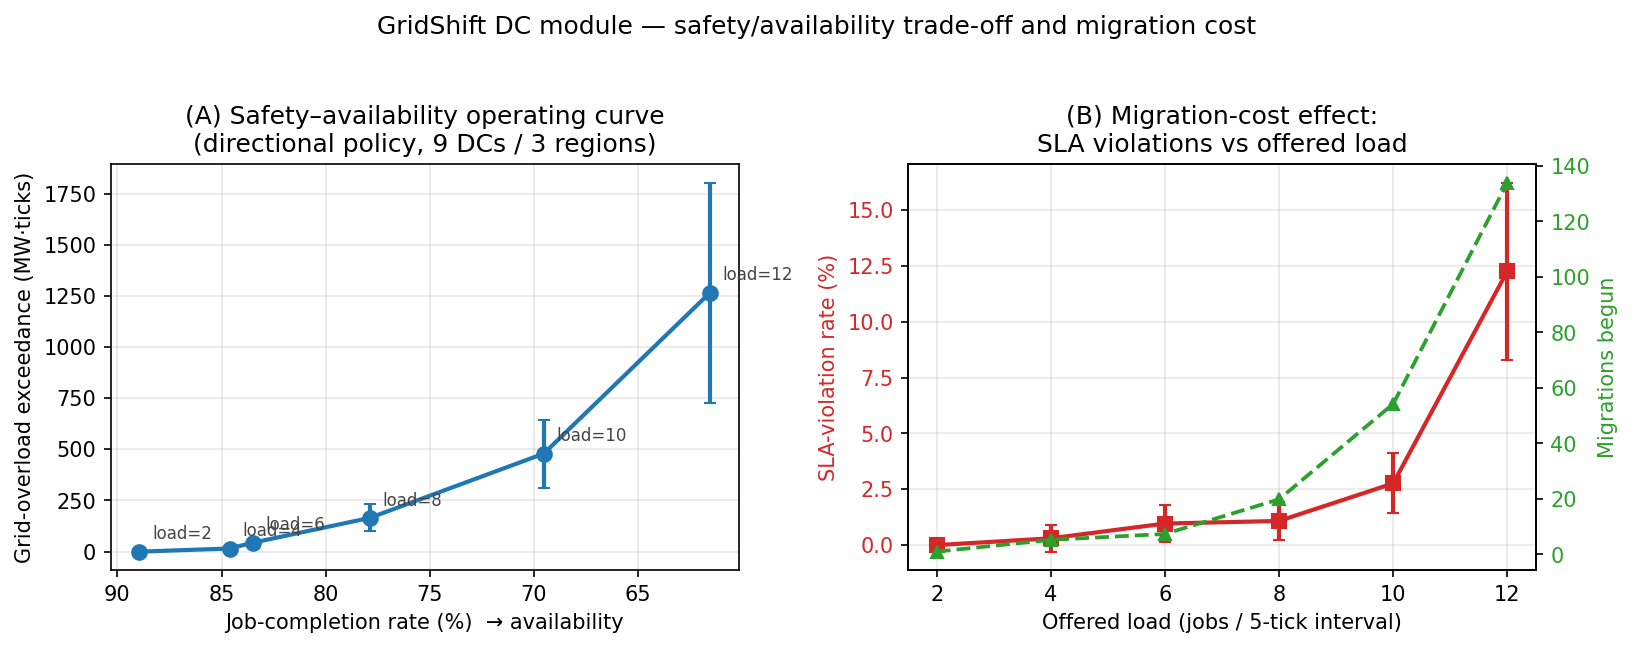
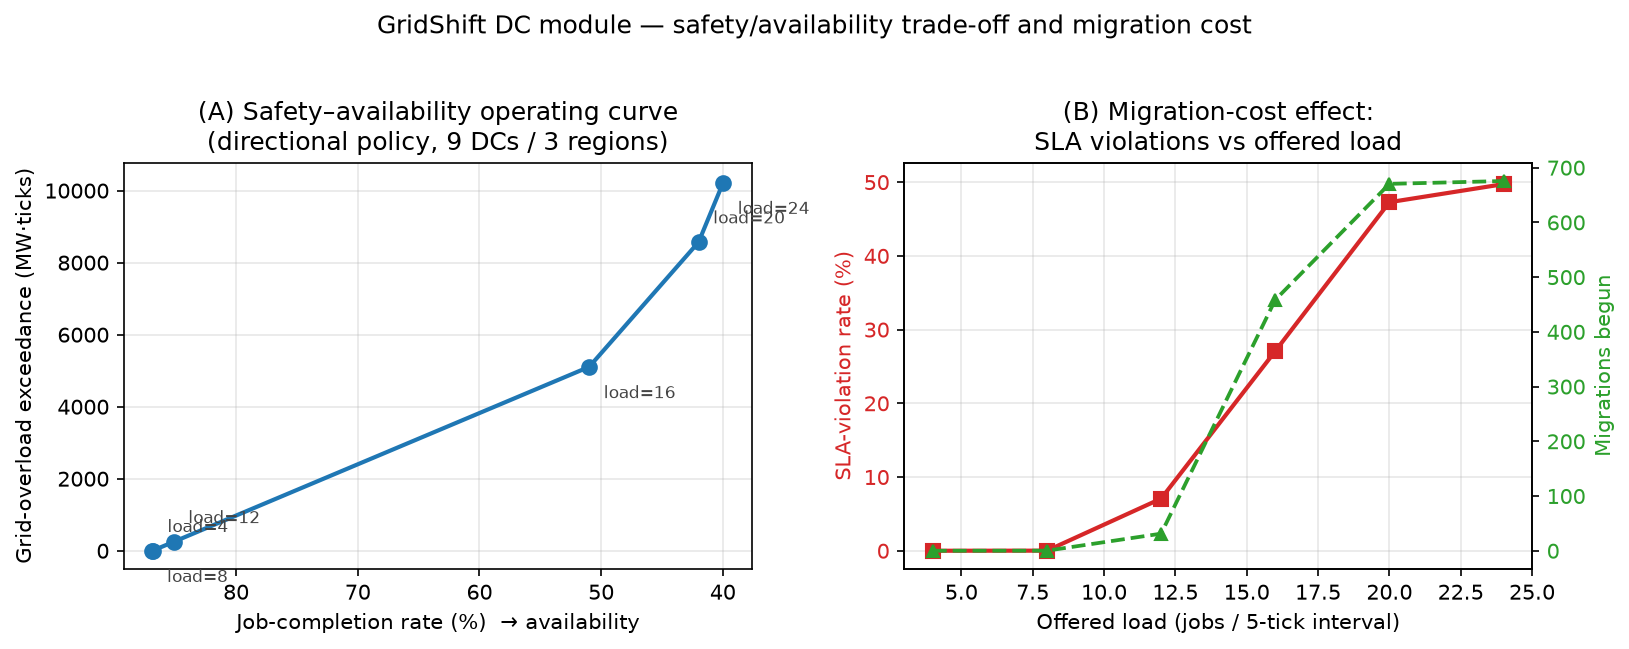
Expand sensitivity evaluations to 500 seeds

diff --git a/experiments/fig_robustness.py b/experiments/fig_robustness.py
@@ -3,10 +3,10 @@
 Robustness sweep: how the three policies degrade as the adversary controls
 a larger fraction of the fleet. Addresses the "results look hand-tuned"
 concern by sweeping compromised_fraction instead of fixing it at 0.34, and
-uses 20 seeds to tighten the confidence intervals.
+uses 500 seeds to tighten the confidence intervals.
 
 For each (policy, compromised_fraction): scheduled fusion-detector attack,
-20 seeds. Metrics: grid-overload exceedance, completion rate, SLA-violation
+500 seeds. Metrics: grid-overload exceedance, completion rate, SLA-violation
 rate, and compromised-node load exposure (job MW.ticks on untrusted nodes).
 
 Run:  python -m experiments.fig_robustness
@@ -22,7 +22,7 @@ from core.orchestrator import GridShiftOrchestrator
 
 POLICIES = ["none", "freeze", "directional"]
 FRACTIONS = [0.0, 0.11, 0.22, 0.33, 0.44, 0.56]   # 0..5 of 9 DCs
-SEEDS = list(range(20))
+SEEDS = list(range(500))
 TICKS, INITIAL_BURST, STEADY_BURST = 50, 30, 5
 OUTDIR = os.path.join(os.path.dirname(__file__), "figures")
 COLORS = {"none": "#1f77b4", "freeze": "#d62728", "directional": "#2ca02c"}
@@ -90,7 +90,7 @@ def make_figure(data):
         ax.grid(True, alpha=0.3)
         ax.legend(fontsize=8)
     fig.suptitle("GridShift robustness vs. adversary-controlled fraction "
-                 "(fusion detector, 20 seeds, 95% CI)", fontsize=12, y=1.01)
+                 "(fusion detector, 500 seeds, 95% CI)", fontsize=12, y=1.01)
     fig.tight_layout()
     png = os.path.join(OUTDIR, "fig_robustness.png")
     fig.savefig(png, dpi=150, bbox_inches="tight")

diff --git a/experiments/fig_dc.py b/experiments/fig_dc.py
@@ -15,7 +15,7 @@ Produces a 2-panel figure:
 This experiment ISOLATES the effect of workload intensity: it runs under
 the directional policy with NO adversary, so the load signal is not masked
 by the attack (the policy/detector/robustness figures carry the adversarial
-story). 10 seeds.
+story). 500 seeds.
 
 Run:  python -m experiments.fig_dc
 """
@@ -29,7 +29,7 @@ from core.config import SimConfig
 from core.orchestrator import GridShiftOrchestrator
 
 TICKS = 50
-SEEDS = list(range(10))
+SEEDS = list(range(500))
 LOAD_LEVELS = [4, 8, 12, 16, 20, 24]   # jobs injected per 5-tick interval
 OUTDIR = os.path.join(os.path.dirname(__file__), "figures")
 

diff --git a/experiments/fig_detector_compare.py b/experiments/fig_detector_compare.py
@@ -34,7 +34,7 @@ from core.state import TrustLevel
 
 # ---- experiment configuration ----
 DETECTOR_MODES = ["attestation-only", "behavior-only", "fusion"]
-SEEDS = list(range(10))
+SEEDS = list(range(500))
 TICKS = 50
 INITIAL_BURST = 30
 STEADY_BURST = 5
